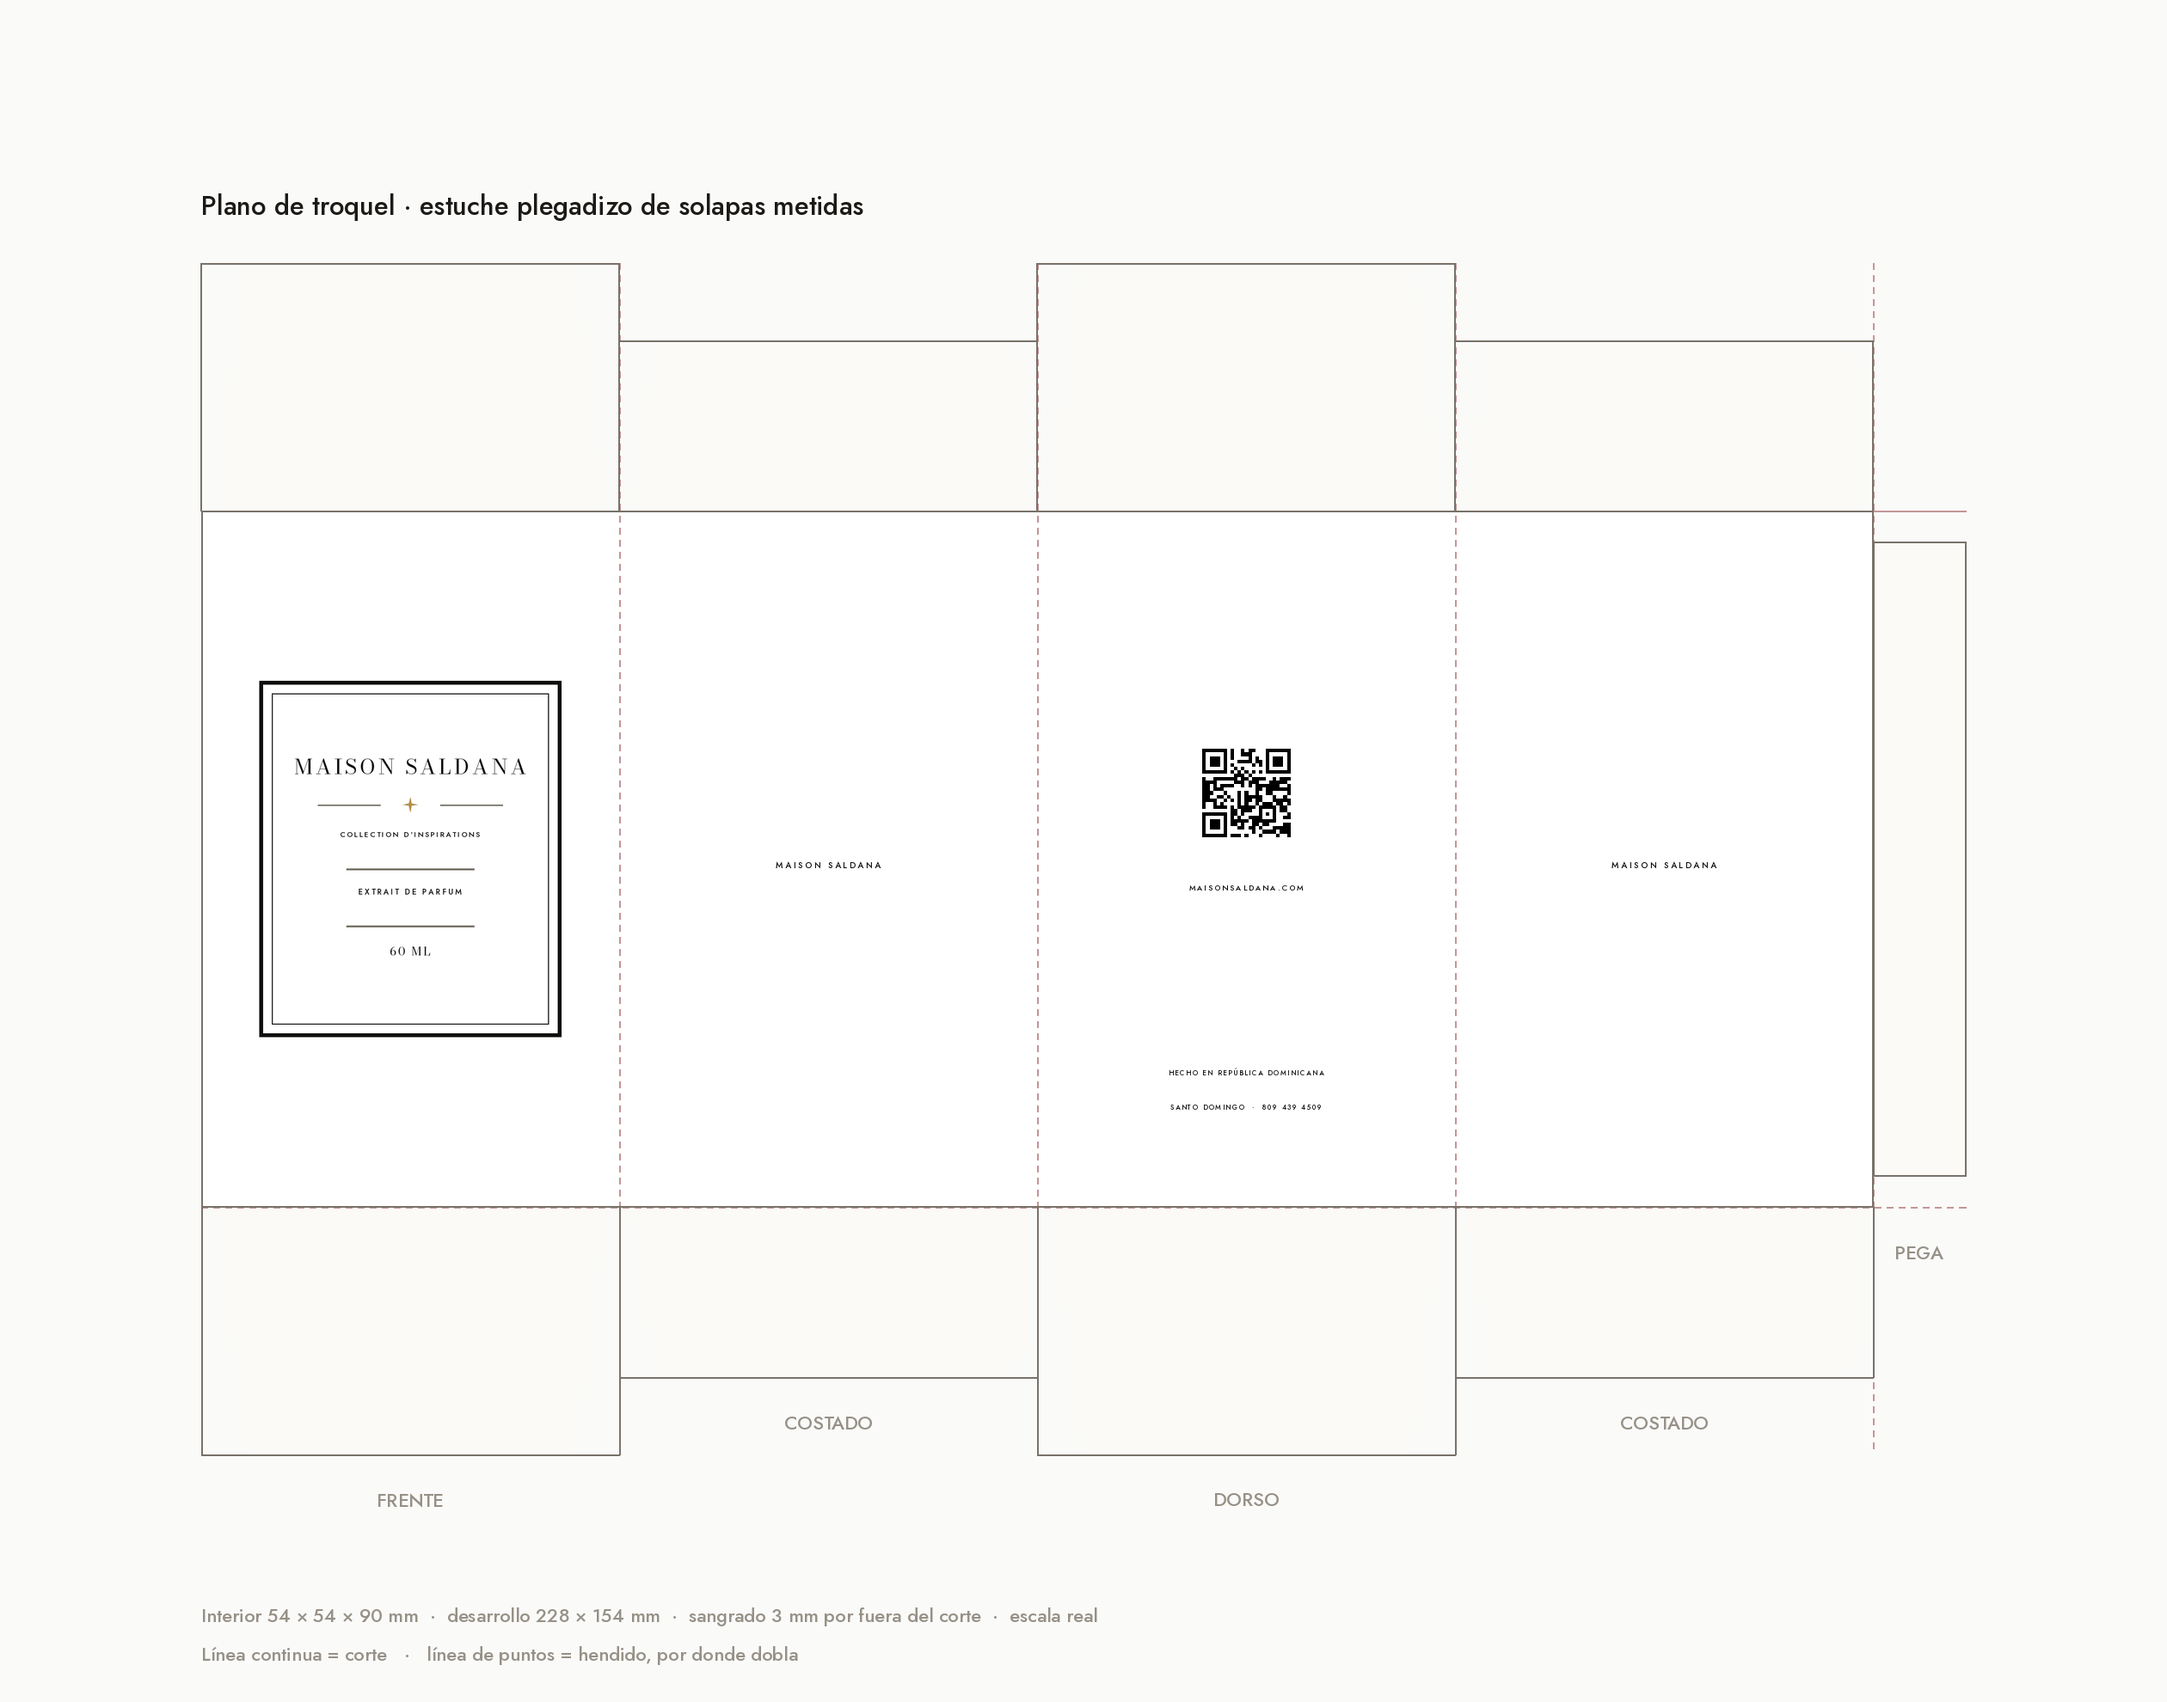
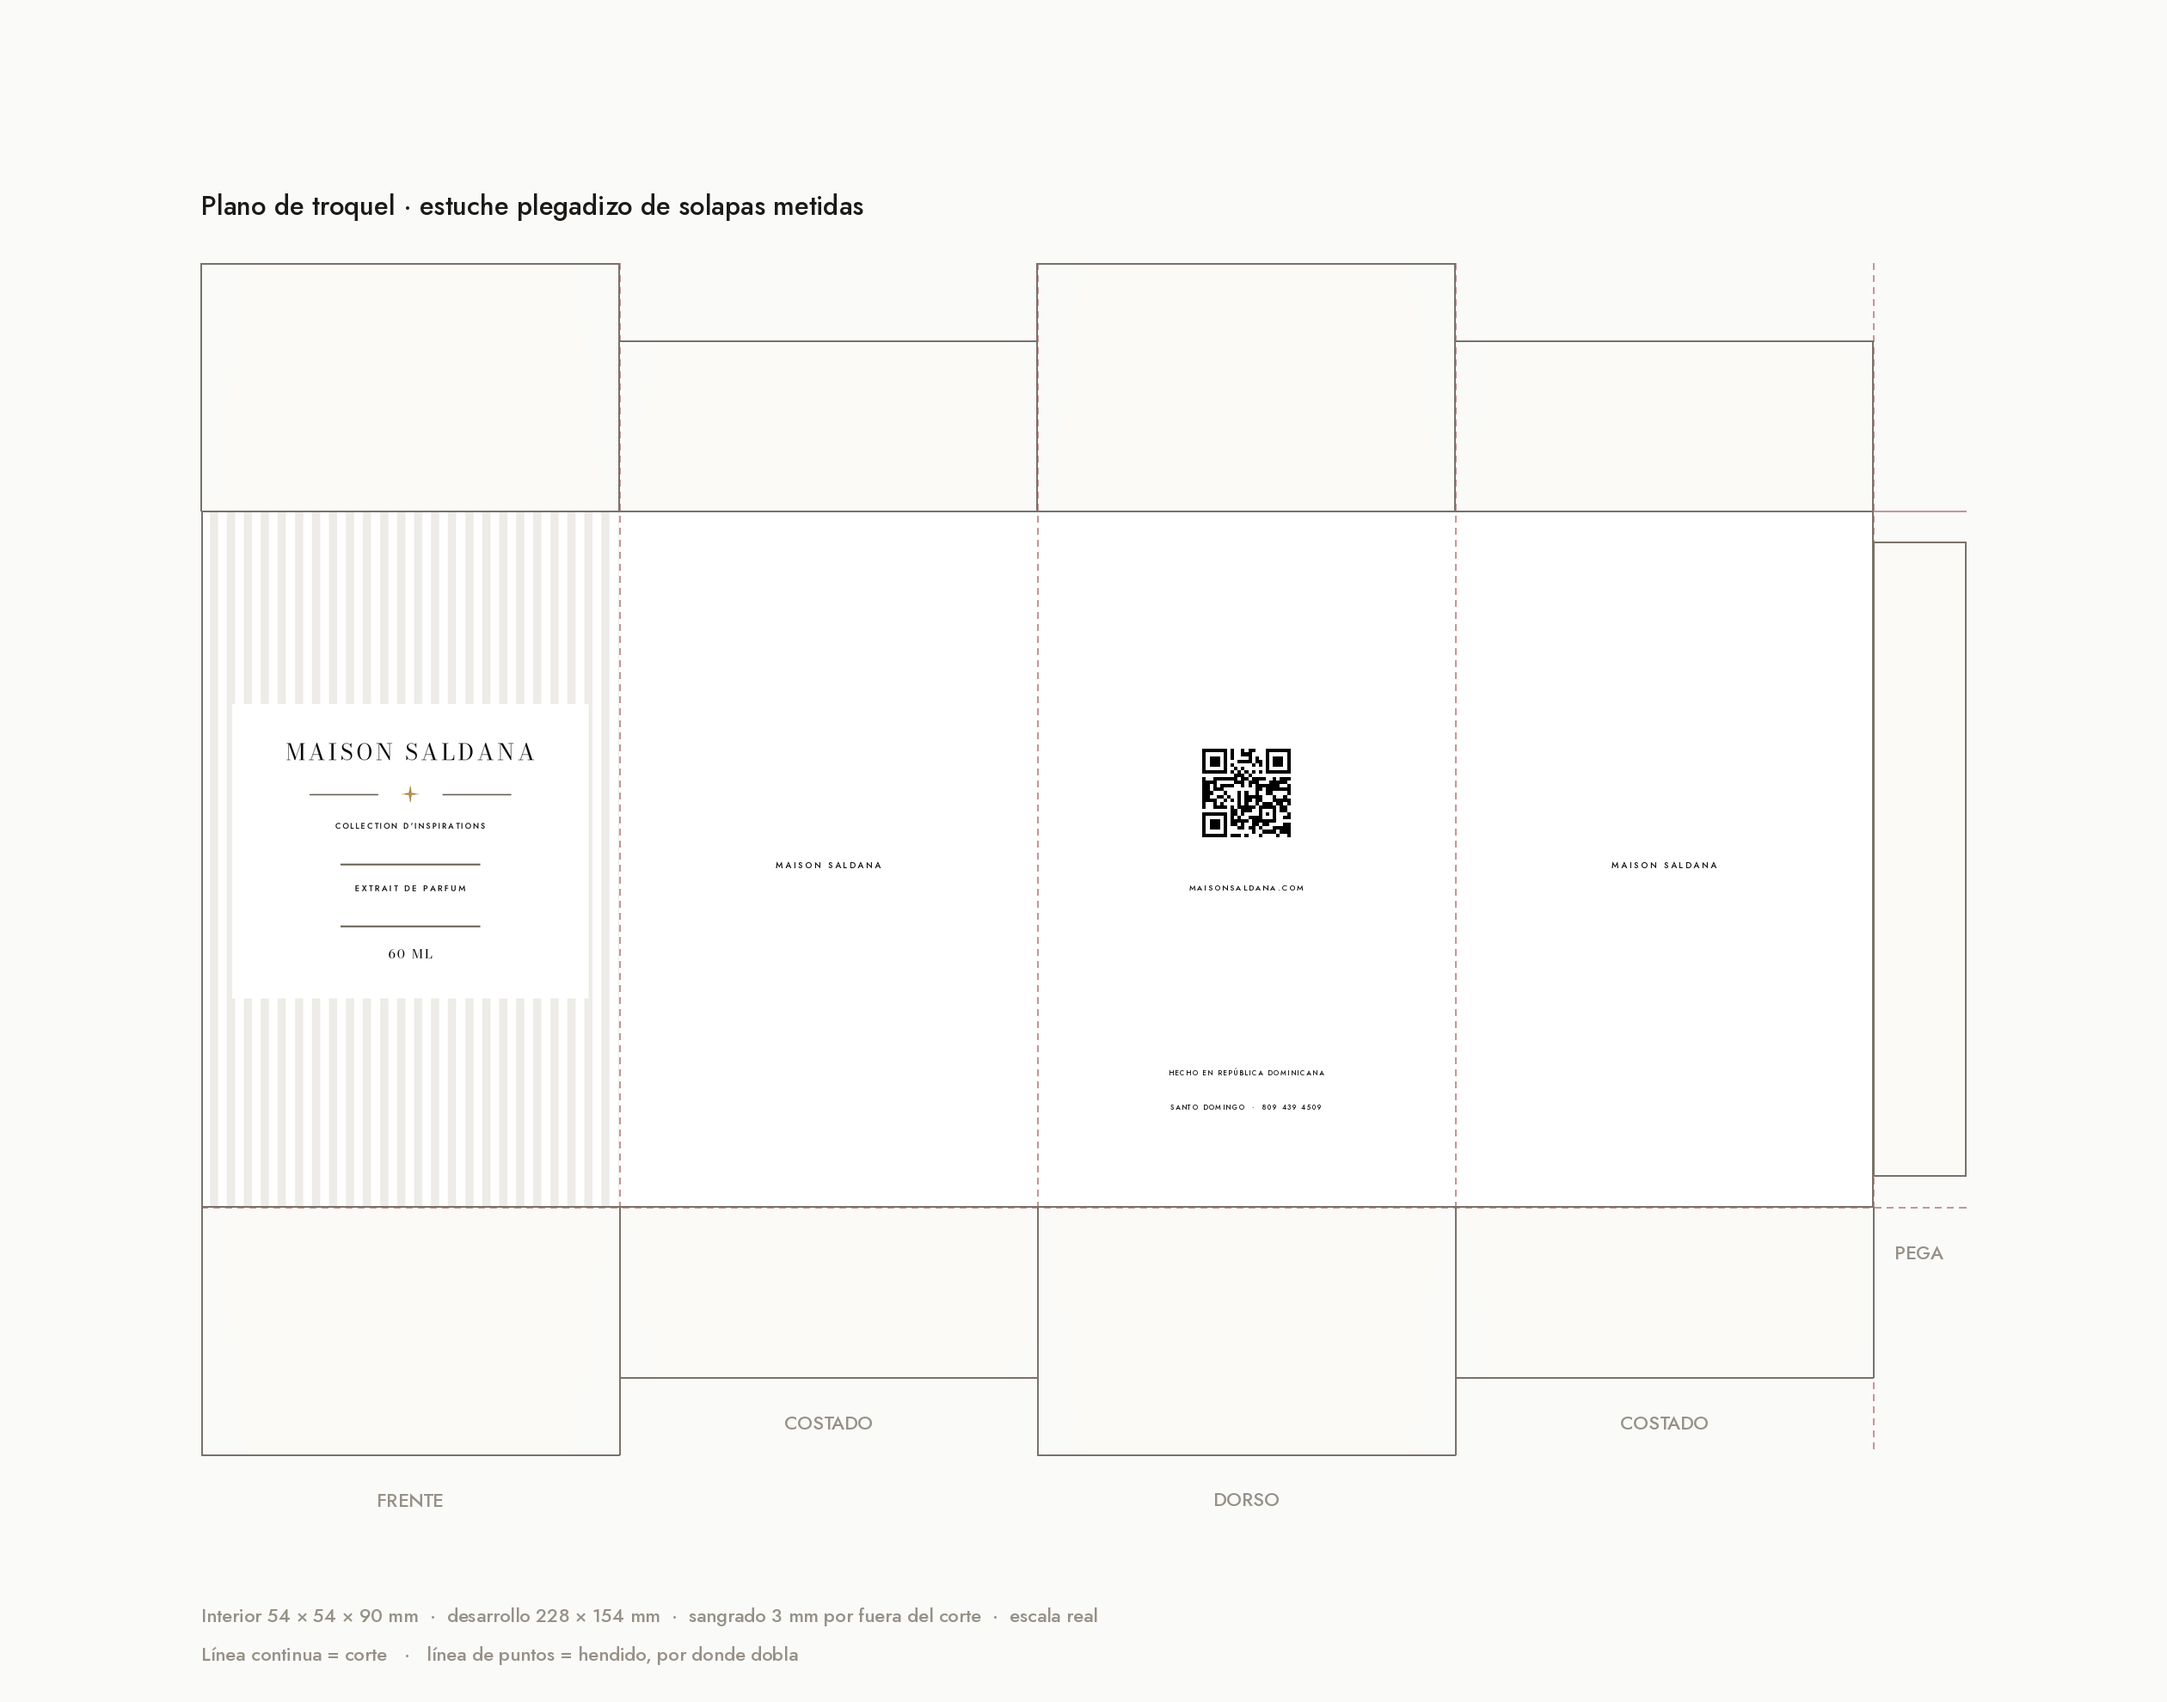
La estría pasa a gofrado de verdad, con su ficha de imprenta
Opción elegida: A, la estría. Y pidió que se SIENTA, no que se vea.

LO QUE HABÍA NO SE PODÍA GOFRAR. Iba a 1,9 mm de paso con cresta de
0,34 mm. Eso se imprime, pero por debajo de 0,8 mm de cresta el latón
del troquel no sostiene el filo: o revienta la fibra del cartón y sale
una línea blanca en la cresta, o el relieve se aplasta al primer
manoseo. La geometría que sí aguanta sale de cruzar el calibre de la
cartulina con lo que tolera una matriz:

  paso 2,2 mm · cresta 1,0 · valle 1,2 · hondo 0,18
  25 estrías en la cara de 54 mm, frente a las 28 de antes

El hondo tampoco es libre: la cartulina de 330 g mide 0,42 mm, y un
gofrado no pasa de un tercio a la mitad del calibre o se marca por
detrás. 0,18 es un tercio justo.

LA LÁMINA relieve.png enseña las dos caras juntas —dibujada y gofrada—,
el mismo trozo ampliado cuatro veces, que es donde se nota, y el corte
transversal del cartón con las cotas. En papel blanco un gofrado no se
ve por su color sino por la sombra del canto, así que está dibujado
así y no como una raya gris.

LA FICHA DE IMPRENTA, que es lo que pidió. Cómo se llama el proceso
aquí, qué matriz hace falta y de qué perfil, las medidas, en qué caras
va y en cuáles no, las tres cosas que no se pueden gofrar —la ventana
del texto, el QR y la pestaña de pegado—, el orden de las operaciones
y qué mirar en el pase de prueba.

De ese orden, lo que más se equivoca: EL LAMINADO VA ANTES DEL
GOFRADO. Al revés, el rodillo del laminado aplasta el relieve y el
[…]

Changed region(s): [[0.1238, 0.4005, 0.2786, 0.6162]]

diff --git a/marca/empaque/relieve.py b/marca/empaque/relieve.py
@@ -1,0 +1,201 @@
+"""La estría, gofrada de verdad: geometría viable y cómo se ve.
+
+Lo dibujado antes iba a 1,9 mm de paso con cresta de 0,34 mm. Eso se
+imprime pero NO se gofra: por debajo de 0,8 mm el latón del troquel no
+sostiene la cresta y la fibra del cartón se parte. La geometría que sí
+aguanta es 2,2 de paso con 1,0 de cresta: 25 estrías en la cara, que es
+prácticamente lo mismo que se veía.
+
+Una estría gofrada en cartulina blanca no se ve por su color —no lleva
+tinta— sino por la sombra del canto. Por eso aquí se dibuja la sombra
+del valle y no una raya gris.
+"""
+from PIL import Image, ImageDraw, ImageFont, ImageFilter
+import numpy as np
+import importlib.util
+import sys
+import os
+
+F = "/tmp/claude-0/-home-user-maisonsaldana/ea3b086e-04ac-5a0b-b7d0-5c4540eaa5c0/scratchpad/fuentes"
+BODONI, JOST = f"{F}/bodoni-1.ttf", f"{F}/jost-3236.ttf"
+SALIDA = os.path.dirname(os.path.abspath(__file__))
+
+spec = importlib.util.spec_from_file_location("denso", f"{SALIDA}/denso.py")
+denso = importlib.util.module_from_spec(spec)
+sys.modules["denso"] = denso
+spec.loader.exec_module(denso)
+
+PPM = 20
+W, H = 54, 90
+PASO, CRESTA, HONDO = 2.2, 1.0, 0.18      # mm, mm, mm
+VENTANA = (4.0, 25.0, W - 4.0, 63.0)      # zona plana donde va el texto
+
+
+def mm(v):
+    return int(round(v * PPM))
+
+
+def ft(r, pt):
+    return ImageFont.truetype(r, max(5, int(round(pt * 0.3528 * PPM))))
+
+
+def cara_gofrada():
+    """La cara con la estría en relieve seco, iluminada desde la izquierda."""
+    alto, ancho = mm(H), mm(W)
+    luz = np.full((alto, ancho), 255.0)
+
+    # Cada paso lleva una cresta y un valle. Lo que se ve en papel blanco
+    # sin tinta es el canto: la pared que da la espalda a la luz se
+    # oscurece, la que la recibe se queda en blanco del papel.
+    x = 0.0
+    while x < W:
+        v0, v1 = x + CRESTA, x + PASO            # el valle
+        c0, c1 = mm(v0), min(mm(v1), ancho)   # el último valle se sale de la cara
+        if c1 > c0:
+            tira = np.linspace(0, 1, c1 - c0)
+            # sombra fuerte pegada a la pared de la izquierda del valle,
+            # que es la que queda a contraluz, y se desvanece hacia la otra
+            sombra = np.exp(-((tira - 0.18) ** 2) / 0.055) * 26
+            luz[:, c0:c1] -= sombra[None, :]
+            # un filo claro en la arista de la cresta, donde pega la luz
+            a0 = max(0, c0 - max(1, int(0.12 * PPM)))
+            luz[:, a0:c0] += 6
+        x += PASO
+
+    # La ventana plana: ahí el troquel no toca, para que el texto se
+    # imprima sobre liso y se lea. Un canto suave la separa.
+    x0, y0, x1, y1 = (mm(VENTANA[0]), mm(VENTANA[1]), mm(VENTANA[2]), mm(VENTANA[3]))
+    plano = np.full_like(luz, 255.0)
+    mascara = np.zeros_like(luz)
+    mascara[y0:y1, x0:x1] = 1.0
+    mascara = np.asarray(
+        Image.fromarray((mascara * 255).astype(np.uint8)).filter(ImageFilter.GaussianBlur(mm(0.5)))
+    ) / 255.0
+    luz = luz * (1 - mascara) + plano * mascara
+
+    im = Image.fromarray(np.clip(luz, 0, 255).astype(np.uint8)).convert("RGB")
+    d = ImageDraw.Draw(im)
+
+    # la pila, con los helpers de denso.py reescalados a este PPM
+    guarda = denso.PPM
+    denso.PPM = PPM
+    denso.pila(d, 29.0)
+    denso.PPM = guarda
+    return im
+
+
+def cara_dibujada():
+    """La misma, con la estría impresa en gris: lo que había antes."""
+    im = Image.new("RGB", (mm(W), mm(H)), (255, 255, 255))
+    d = ImageDraw.Draw(im)
+    x = PASO / 2
+    while x < W:
+        d.rectangle([mm(x), 0, mm(x) + max(1, int(0.34 * PPM)), mm(H)], fill=(238, 236, 232))
+        x += PASO
+    d.rectangle([mm(VENTANA[0]), mm(VENTANA[1]), mm(VENTANA[2]), mm(VENTANA[3])],
+                fill=(255, 255, 255))
+    guarda = denso.PPM
+    denso.PPM = PPM
+    denso.pila(d, 29.0)
+    denso.PPM = guarda
+    return im
+
+
+def seccion(ancho_mm=70, alto_mm=26):
+    """Corte transversal del cartón, ampliado nueve veces."""
+    ESC = 9
+    an, al = mm(ancho_mm), mm(alto_mm)
+    im = Image.new("RGB", (an, al), (250, 250, 249))
+    d = ImageDraw.Draw(im)
+    f = ImageFont.truetype(JOST, mm(2.0))
+
+    base = al - mm(9)
+    calibre = 0.42 * ESC
+    prof = HONDO * ESC
+    techo = base - mm(calibre)
+
+    pts, x = [], 6.0
+    while x < ancho_mm - 1:
+        for xx, yy in ((x, 0), (x + CRESTA * ESC / 3, 0),
+                       (x + CRESTA * ESC / 3 + 0.9, prof),
+                       (x + PASO * ESC / 3 - 0.9, prof),
+                       (x + PASO * ESC / 3, 0)):
+            pts.append((mm(xx), techo + mm(yy)))
+        x += PASO * ESC / 3
+    d.line(pts, fill=(70, 66, 60), width=3, joint="curve")
+    d.line([(mm(6), base), (mm(ancho_mm - 1), base)], fill=(70, 66, 60), width=3)
+
+    # cota del paso, sobre las dos primeras crestas
+    p = PASO * ESC / 3
+    d.line([(mm(6), techo - mm(4)), (mm(6 + p), techo - mm(4))], fill=(196, 150, 150), width=2)
+    for xa in (6, 6 + p):
+        d.line([(mm(xa), techo - mm(5)), (mm(xa), techo - mm(3))], fill=(196, 150, 150), width=2)
+    d.text((mm(6 + p / 2), techo - mm(6)), f"paso {PASO} mm", font=f,
+           fill=(150, 144, 134), anchor="mb")
+
+    d.text((mm(ancho_mm - 1), base + mm(2)),
+           f"calibre 0,42 mm  ·  cresta {CRESTA} mm  ·  valle {round(PASO - CRESTA, 1)} mm"
+           f"  ·  hondo {HONDO} mm", font=f, fill=(150, 144, 134), anchor="rt")
+    d.text((mm(1.5), base + mm(2)), "× 9", font=f, fill=(150, 144, 134))
+    return im
+
+
+def detalle(im, x_mm, y_mm, lado_mm=11, aumento=4):
+    """Un trozo de la cara, ampliado, que es donde se nota la diferencia."""
+    c = im.crop((mm(x_mm), mm(y_mm), mm(x_mm + lado_mm), mm(y_mm + lado_mm)))
+    return c.resize((mm(lado_mm * aumento), mm(lado_mm * aumento)), Image.LANCZOS)
+
+
+# ================================================================= lámina
+gof, dib = cara_gofrada(), cara_dibujada()
+sec = seccion()
+LADO, AUM = 11, 4
+det_d, det_g = detalle(dib, 6, 68, LADO, AUM), detalle(gof, 6, 68, LADO, AUM)
+
+MG, HU = mm(14), mm(15)
+col2 = MG + mm(W) * 2 + HU * 2
+Wl = col2 + mm(LADO * AUM) * 2 + HU + MG
+Hl = MG * 2 + mm(H) + mm(26)
+lam = Image.new("RGB", (Wl, Hl), (250, 250, 249))
+d = ImageDraw.Draw(lam)
+f_t = ImageFont.truetype(JOST, mm(2.9))
+f_p = ImageFont.truetype(JOST, mm(2.1))
+
+for i, (im, tit, nota) in enumerate((
+        (dib, "Dibujada", "Una raya gris impresa. Se ve, no se siente."),
+        (gof, "Gofrada", "Sin tinta. Lo que se ve es la sombra del canto."))):
+    x = MG + i * (mm(W) + HU)
+    y = MG + mm(7)
+    d.text((x, MG), tit, font=f_t, fill=(28, 26, 22))
+    lam.paste(im, (x, y))
+    d.rectangle([x - 1, y - 1, x + mm(W), y + mm(H)], outline=(208, 203, 196))
+    d.text((x, y + mm(H) + mm(4)), nota, font=f_p, fill=(108, 102, 94))
+
+d.text((col2, MG), f"El mismo trozo, × {AUM}", font=f_t, fill=(28, 26, 22))
+for i, (im, tit) in enumerate(((det_d, "dibujada"), (det_g, "gofrada"))):
+    x = col2 + i * (mm(LADO * AUM) + HU)
+    lam.paste(im, (x, MG + mm(7)))
+    d.rectangle([x - 1, MG + mm(7) - 1, x + mm(LADO * AUM), MG + mm(7) + mm(LADO * AUM)],
+                outline=(208, 203, 196))
+    d.text((x, MG + mm(7) + mm(LADO * AUM) + mm(3)), tit, font=f_p, fill=(108, 102, 94))
+
+ys = MG + mm(7) + mm(LADO * AUM) + mm(11)
+lam.paste(sec, (col2, ys))
+
+for k2, txt in enumerate([
+        "Relieve seco (gofrado) con troquel de latón. Sin tinta y",
+        "sin barniz: el relieve es el propio cartón empujado.",
+        "",
+        f"{PASO} mm de paso = 25 estrías en la cara de 54 mm.",
+        "A 1,9 mm NO se puede: por debajo de 0,8 mm de cresta",
+        "el latón no aguanta y la fibra del cartón se parte.",
+        "",
+        "La ventana del texto va PLANA. El troquel no la toca,",
+        "para que la letra se imprima sobre liso y se lea."]):
+    d.text((col2, ys + mm(30 + k2 * 3.8)), txt, font=f_p, fill=(108, 102, 94))
+
+lam.save(f"{SALIDA}/relieve.png")
+gof.save(f"{SALIDA}/frente-a-estria-gofrada.png")
+print("relieve:", lam.size, "=", round(Wl / PPM), "×", round(Hl / PPM), "mm")
+print(f"geometría: paso {PASO} · cresta {CRESTA} · valle {round(PASO-CRESTA,1)} · hondo {HONDO} mm")
+print(f"estrías en la cara: {54/PASO:.0f}")

diff --git a/marca/empaque/denso.py b/marca/empaque/denso.py
@@ -91,7 +91,10 @@ def cara():
 # =========================================================== A · LA ESTRÍA
 def a_estria():
     im, d = cara()
-    paso, grosor = 1.9, 0.34
+    # Geometría de gofrado, no de dibujo: paso 2,2 con cresta de 1,0.
+    # Por debajo de 0,8 mm de cresta el latón del troquel no aguanta
+    # y la fibra del cartón revienta. Son 25 estrías en la cara.
+    paso, grosor = 2.2, 1.0
     x = paso / 2
     while x < W:
         d.rectangle([mm(x), 0, mm(x) + max(1, int(grosor * PPM)), mm(H)], fill=ESTRIA)
@@ -100,9 +103,9 @@ def a_estria():
     d.rectangle([mm(4), mm(25), mm(W - 4), mm(63)], fill=BLANCO)
     pila(d, 29.0)
     return im, "A · La estría", [
-        "La estría del vidrio llevada al cartón, en relieve seco.",
-        "Llena la cara entera sin una gota de tinta de más.",
-        "1 tinta + relieve seco + foil en el fleurón."]
+        "La estría del frasco, GOFRADA: se siente con el dedo.",
+        "25 estrías de 2,2 mm. Sin tinta: es el cartón empujado.",
+        "1 tinta + gofrado + foil en el fleurón."]
 
 
 # ========================================================= B · LA ETIQUETA

diff --git a/marca/empaque/troquel.py b/marca/empaque/troquel.py
@@ -109,7 +109,9 @@ _sp = _il.spec_from_file_location("denso", os.path.join(SALIDA, "denso.py"))
 _denso = _il.module_from_spec(_sp)
 sys.modules["denso"] = _denso
 _sp.loader.exec_module(_denso)
-OPCION = _denso.b_etiqueta          # a_estria · b_etiqueta · c_marco · d_bloque
+OPCION = _denso.a_estria            # a_estria · b_etiqueta · c_marco · d_bloque
+# En el plano la estría va dibujada en gris claro, pero NO se imprime:
+# representa la capa GOFRADO. Ver FICHA-IMPRENTA-GOFRADO.txt.
 
 fx = bordes[0]
 frente = OPCION()[0].resize((mm(A), mm(H)), Image.LANCZOS)
